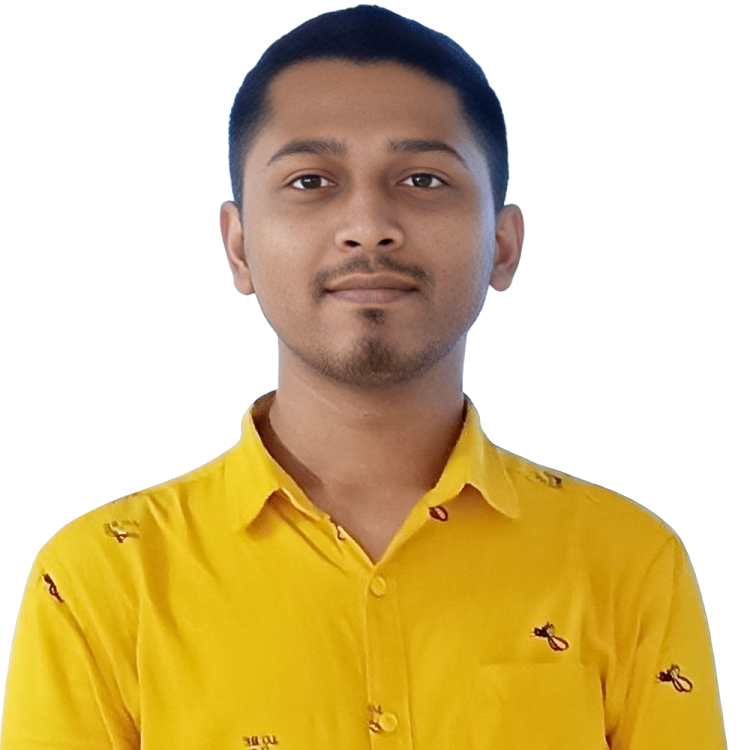
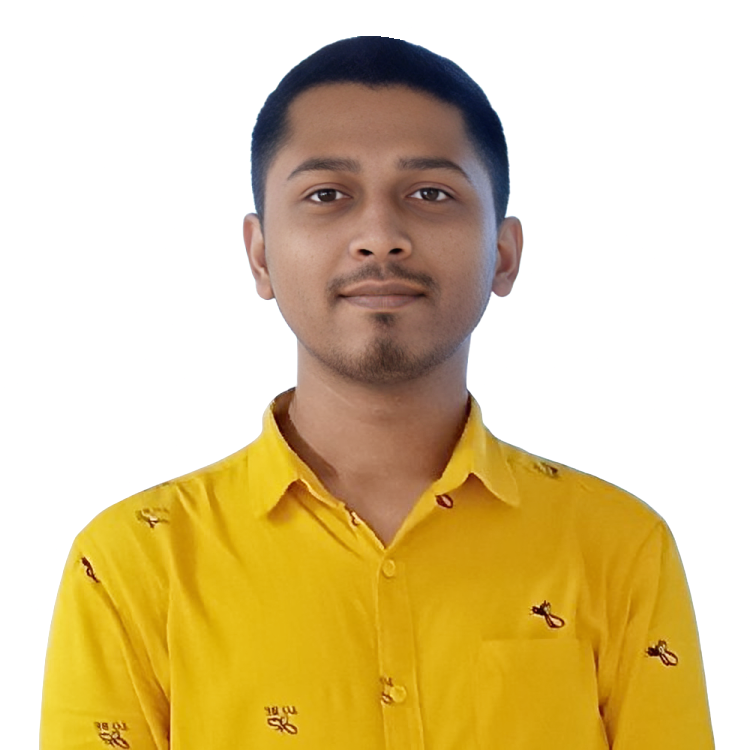
fix: correct education details

diff --git a/src/components/Portfolio.jsx b/src/components/Portfolio.jsx
@@ -38,8 +38,8 @@ const Portfolio = () => {
 
   const education = [
     {
-      degree: "Indian Institute of Technology (BHU), Varanasi",
-      school: "Bachelor of Technology",
+      degree: "Bachelor of Technology",
+      school: "Indian Institute of Technology (BHU) Varanasi",
       period: "2021 - 2025",
       location: "Varanasi",
       additional: "(Mechanical Engineering)"
@@ -70,9 +70,9 @@ const Portfolio = () => {
     },
     {
       title: "GeeksforGeeks",
-      rating: 1989,
+      rating: 1963,
       label: "4 ⭐",
-      questions: "250+",
+      questions: "150+",
       contests: "10+"
     }
   ];
@@ -308,31 +308,34 @@ const Portfolio = () => {
                   className="card"
                   style={{ animationDelay: `${index * 0.2}s` }}
                 >
-                  <div className="card-header">
-                    <h3 className="card-title">{edu.degree}</h3>
-                    <p className="card-company">
-                      {edu.school}
-                    </p>
+                  <div className="card-header" style={{ marginBottom: "22px" }}>
+                    <div className="experience-header">
+                      <div>
+                        <h3 className="card-title">{edu.school}</h3>
+                        <p className="card-company">
+                          {edu.degree}
+                        </p>
+                      </div>
+                      <div className="experience-meta">
+                        <div className="meta-item">
+                          <svg className="icon" fill="none" stroke="currentColor" viewBox="0 0 24 24">
+                            <rect x="3" y="4" width="18" height="18" rx="2" ry="2" />
+                            <line x1="16" y1="2" x2="16" y2="6" />
+                            <line x1="8" y1="2" x2="8" y2="6" />
+                            <line x1="3" y1="10" x2="21" y2="10" />
+                          </svg>
+                          <span>{edu.period}</span>
+                        </div>
+                        <div className="meta-item">
+                          <svg className="icon" fill="none" stroke="currentColor" viewBox="0 0 24 24">
+                            <path d="M21 10c0 7-9 13-9 13s-9-6-9-13a9 9 0 0 1 18 0z" />
+                            <circle cx="12" cy="10" r="3" />
+                          </svg>
+                          <span>{edu.location}</span>
+                        </div>
+                      </div>
+                    </div>
                     {edu.additional && <p className="card-company" style={{ fontSize: "small", marginTop: "2px" }}>{edu.additional}</p>}
-                  </div>
-
-                  <div className="card-content">
-                    <div className="meta-item">
-                      <svg className="icon" fill="none" stroke="currentColor" viewBox="0 0 24 24">
-                        <rect x="3" y="4" width="18" height="18" rx="2" ry="2" />
-                        <line x1="16" y1="2" x2="16" y2="6" />
-                        <line x1="8" y1="2" x2="8" y2="6" />
-                        <line x1="3" y1="10" x2="21" y2="10" />
-                      </svg>
-                      <span>{edu.period}</span>
-                    </div>
-                    <div className="meta-item">
-                      <svg className="icon" fill="none" stroke="currentColor" viewBox="0 0 24 24">
-                        <path d="M21 10c0 7-9 13-9 13s-9-6-9-13a9 9 0 0 1 18 0z" />
-                        <circle cx="12" cy="10" r="3" />
-                      </svg>
-                      <span>{edu.location}</span>
-                    </div>
                   </div>
                 </div>
               ))}
